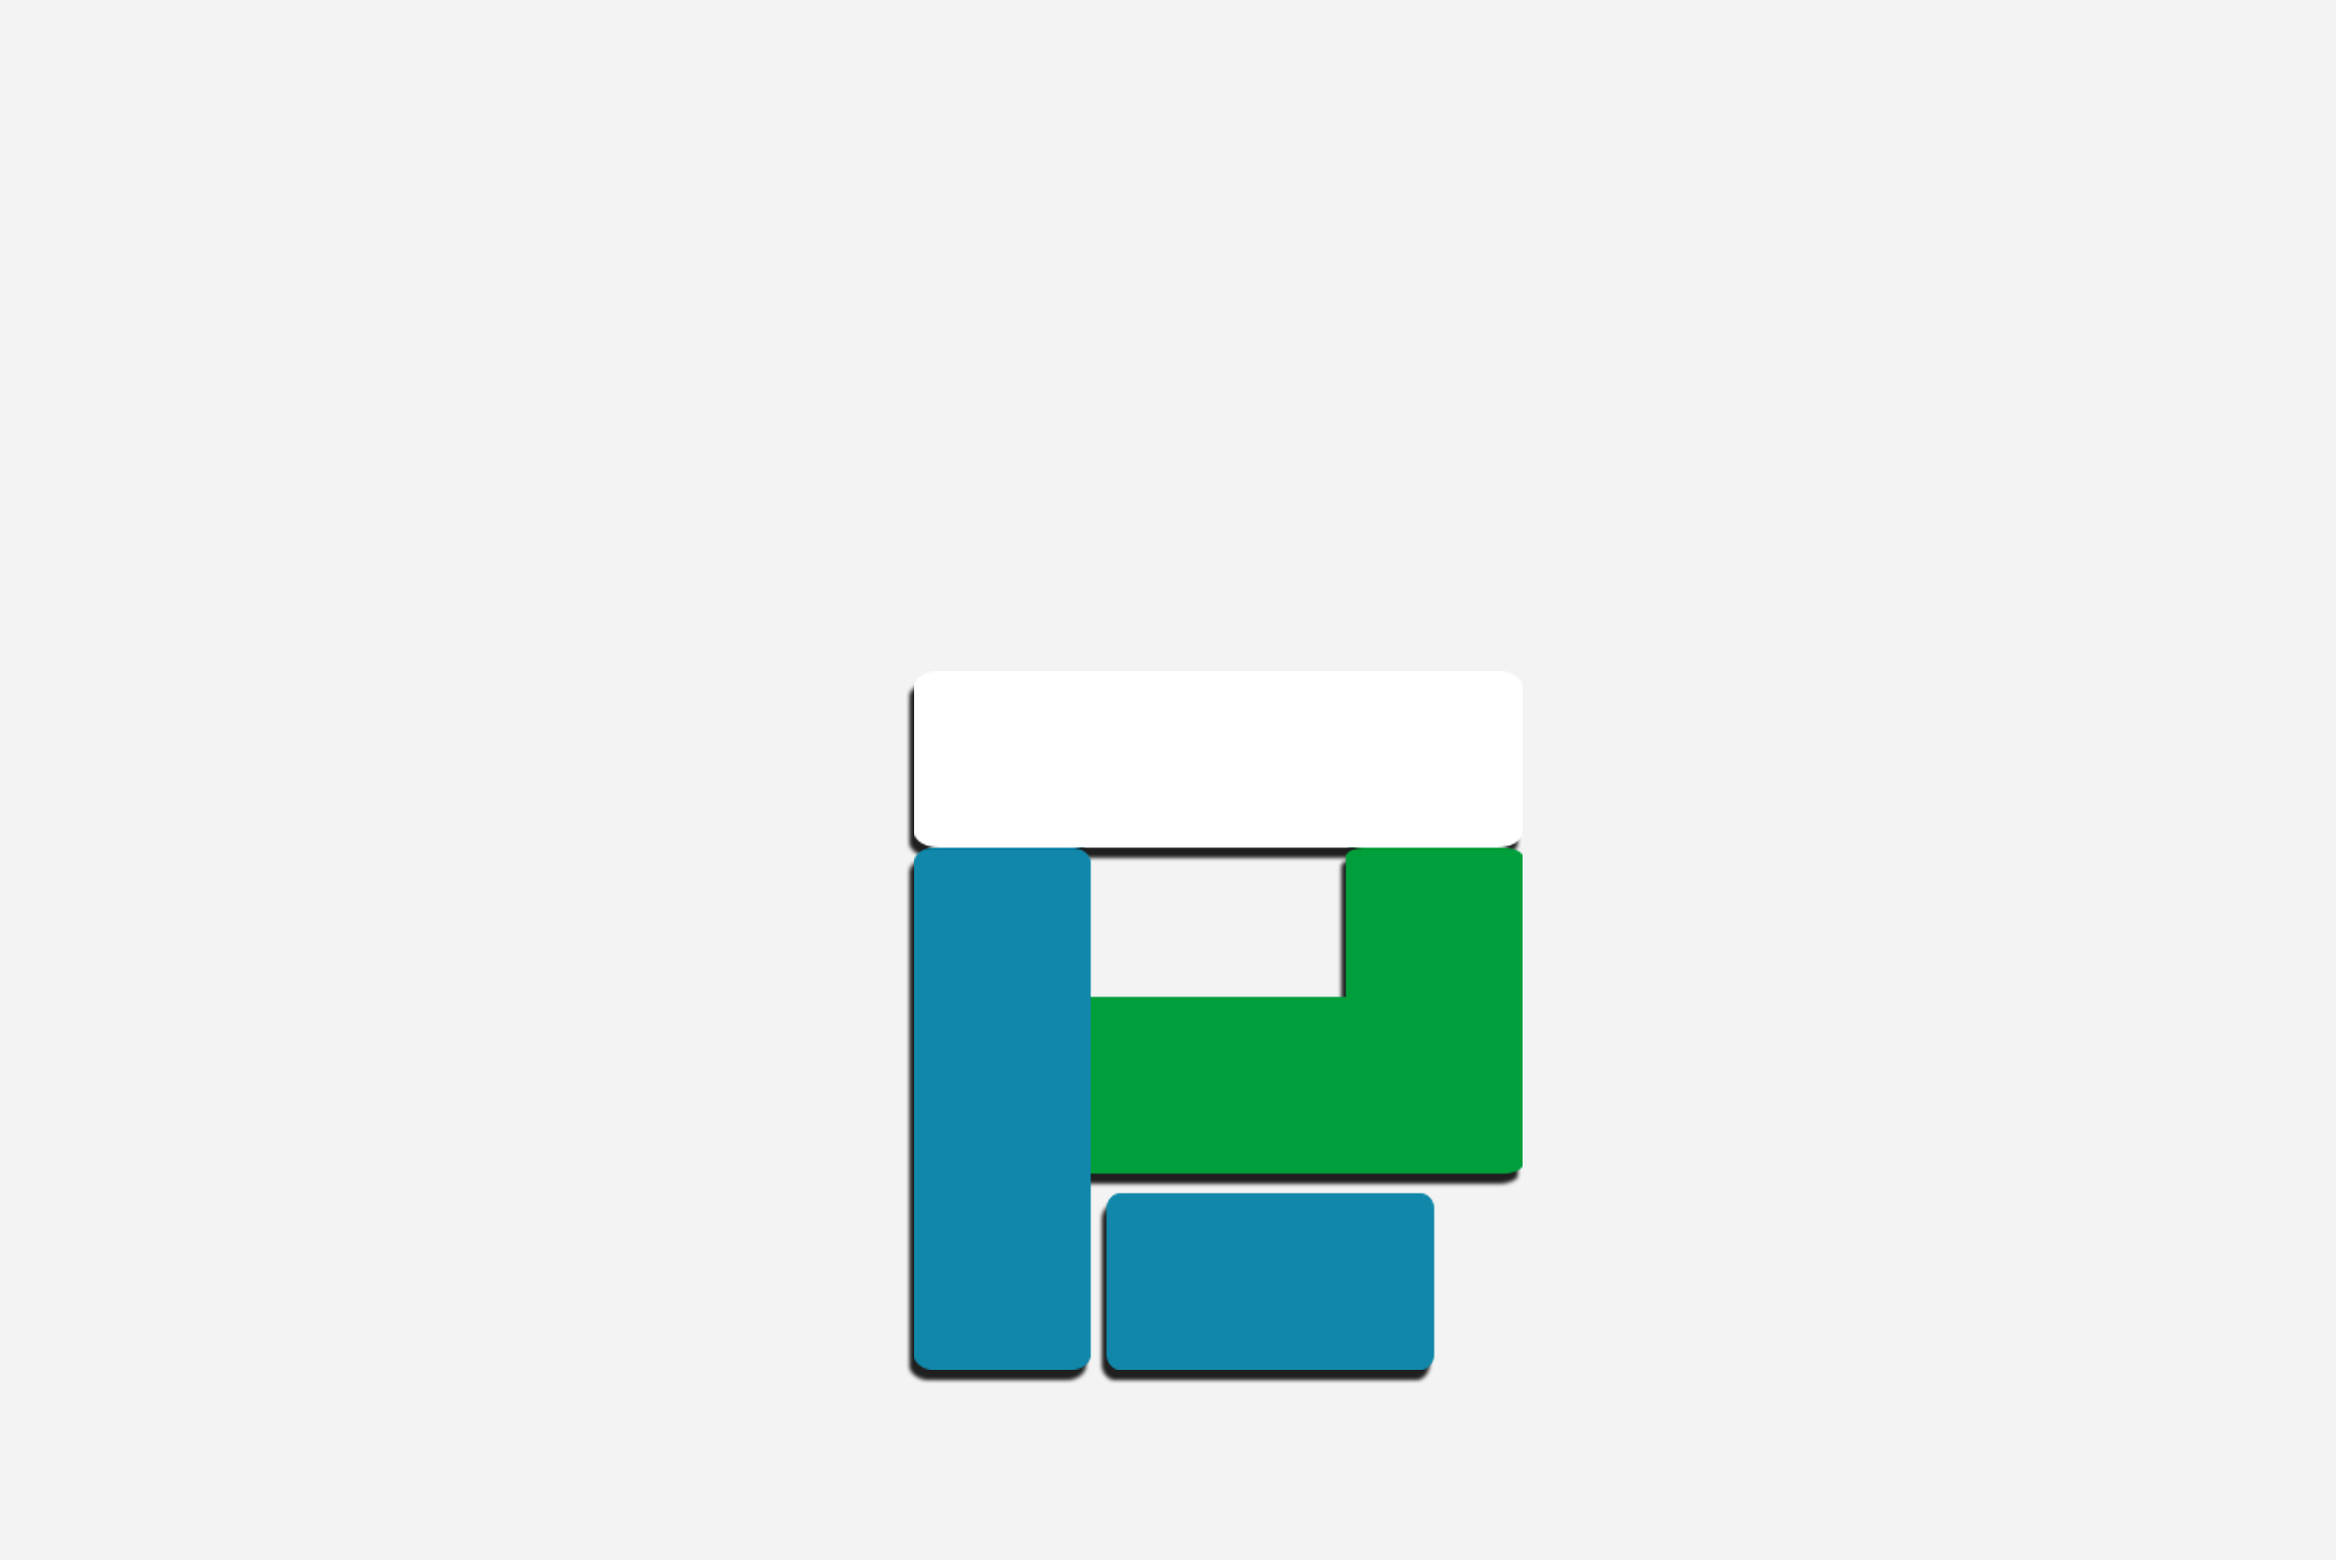
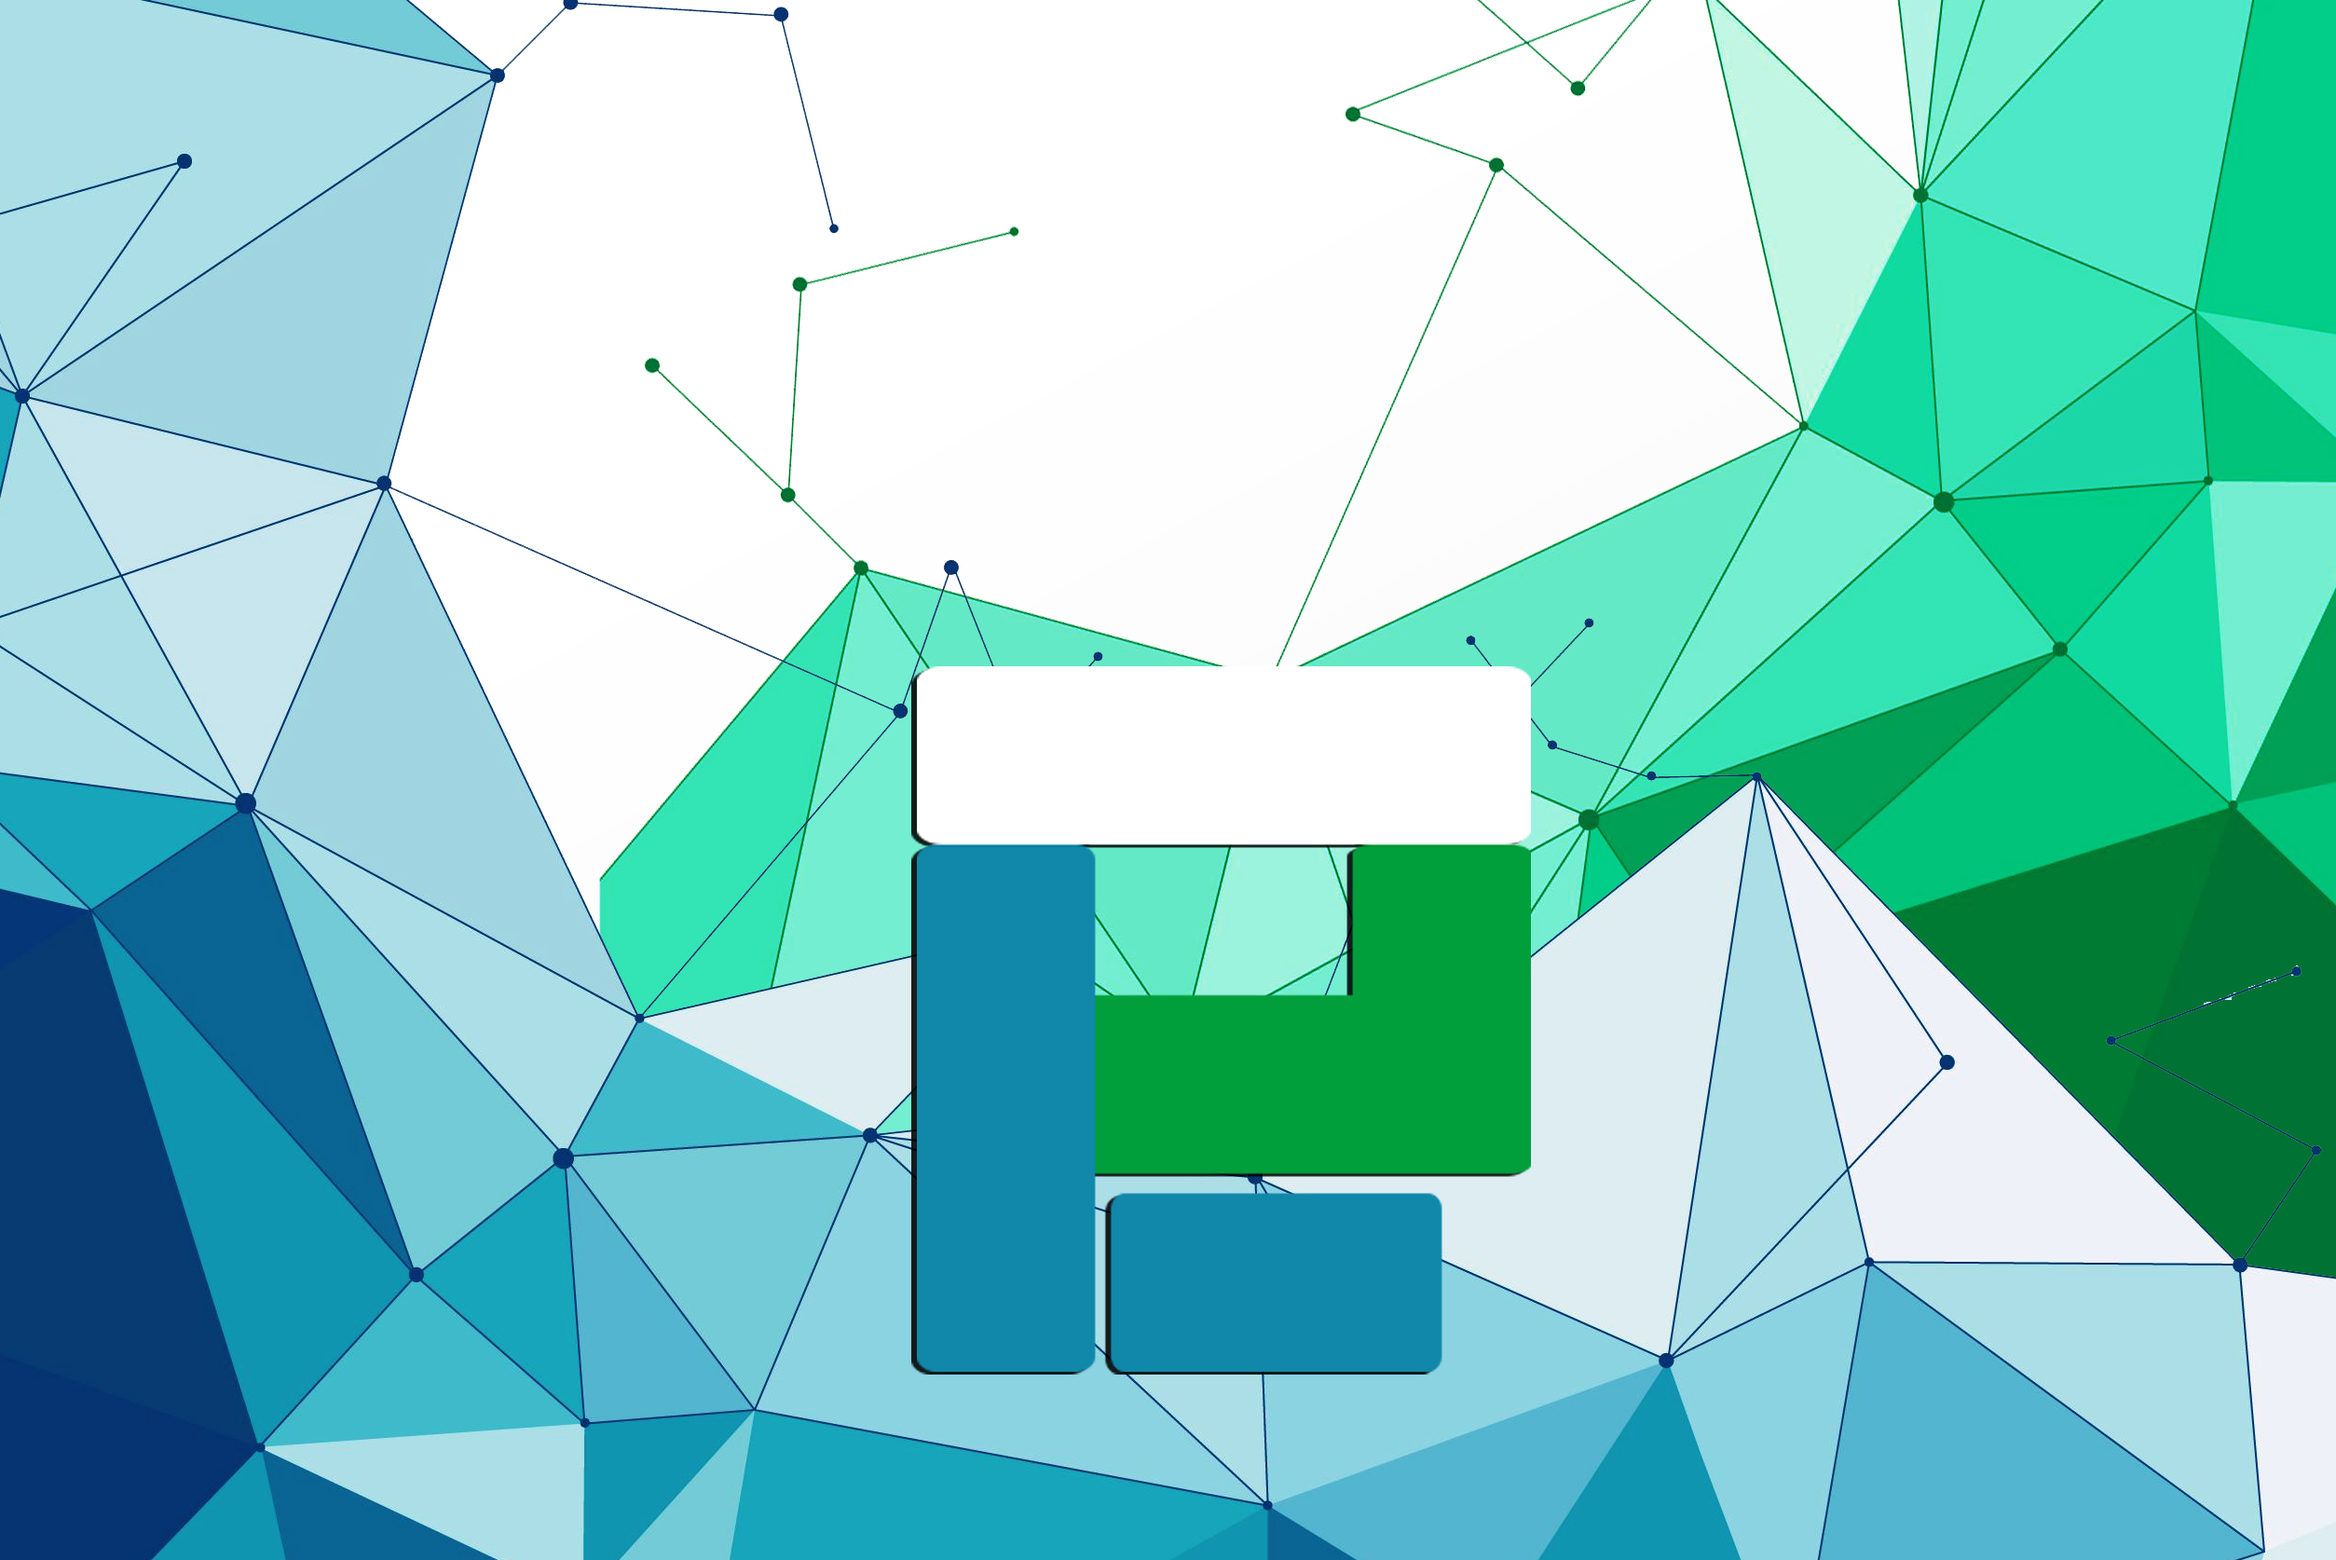
ganti bg, dan index

diff --git a/index.html b/index.html
@@ -79,7 +79,7 @@
 
                 <li class="layer" data-depth="0.25">
                     <div class="sphere">
-                        <img alt="sphere" src="images/sphere.gif">
+                        <img alt="sphere" src="images/sphere2.png">
                     </div>
                 </li>
 
@@ -95,8 +95,8 @@
                     </div>
                 </li>
                 <!-- Flakes -->
-<!-- 
-                <li class="layer" data-depth="0.40">
+                <!-- logo -->
+                <!-- <li class="layer" data-depth="0.40">
                     <div class="depth-1 flake1">
                         <img alt="flake" src="images/flakes/depth1/flakes.gif">
                     </div>
@@ -111,16 +111,6 @@
 
                     <div class="depth-1 flake4">
                         <img alt="flake" src="images/flakes/depth1/flakes4.gif">
-                    </div>
-                </li>
-
-                <li class="layer" data-depth="0.50">
-                    <div class="depth-2 flake1">
-                        <img alt="flake" src="images/flakes/depth2/flakes1.png">
-                    </div>
-
-                    <div class="depth-2 flake2">
-                        <img alt="flake" src="images/flakes/depth2/flakes2.png">
                     </div>
                 </li>
 
@@ -139,6 +129,18 @@
 
                     <div class="depth-3 flake4">
                         <img alt="flake" src="images/flakes/depth3/flakes4.gif">
+                    </div>
+                </li> -->
+
+                <!-- logo -->
+
+                <!-- <li class="layer" data-depth="0.50">
+                    <div class="depth-2 flake1">
+                        <img alt="flake" src="images/flakes/depth2/flakes1.png">
+                    </div>
+
+                    <div class="depth-2 flake2">
+                        <img alt="flake" src="images/flakes/depth2/flakes2.png">
                     </div>
                 </li>
 
